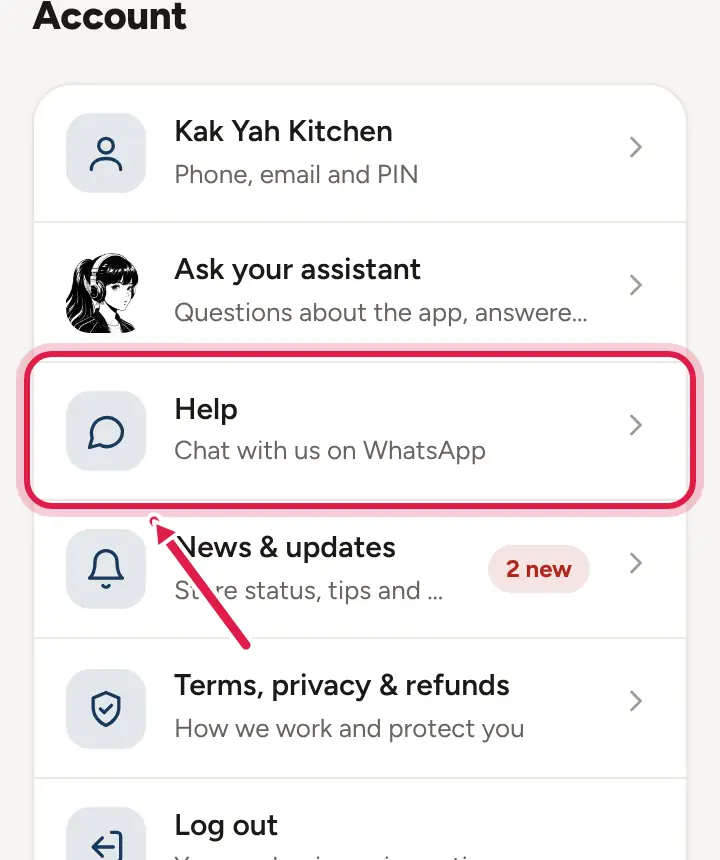
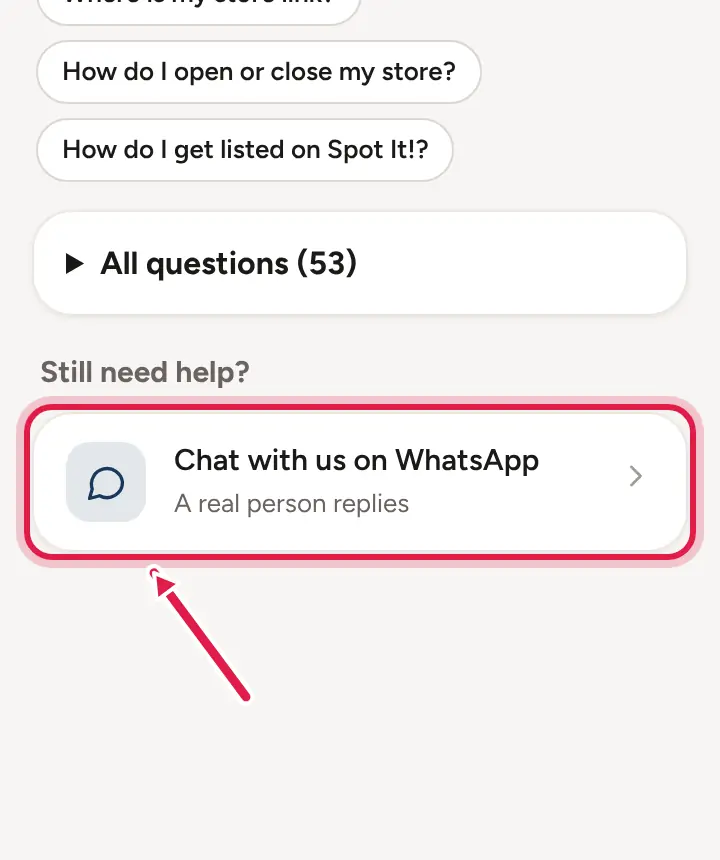
Account: one Help row that opens the assistant, WhatsApp inside it
Claude-Session: https://claude.ai/code/session_01UJFnisQ1AMpzEvBR8NiAo2

diff --git a/404.html b/404.html
@@ -2190,6 +2190,7 @@ function renderStart(msg, mode){
 // New Link Kedai App features are announced to sellers automatically from this list.
 // Add a post at the top for every update sellers can see. The bot shows it on their store home and in News.
 const APP_UPDATES = [
+  { id: "u-20261018-help", at: "2026-10-18", title: "Help is all in one place", body: "Under Account, Help now opens your assistant. Ask anything there, and if you still need a hand, Chat with us on WhatsApp is at the bottom of the page." },
   { id: "u-20261018-ask-learns", at: "2026-10-18", title: "Your assistant keeps learning", body: "When your assistant can't answer a question, it's now passed to us (without your name, store or number) so we can teach it the answer. The more you ask, the smarter it gets." },
   { id: "u-20261018-ask-smarter", at: "2026-10-18", title: "Your assistant understands you better", body: "Your assistant now understands short forms and Manglish, like \"camne nak letak gmbr\" or \"kedai x keluar kat map\", and has new answers about opening hours, order alerts, discounts, stock limits, cancelled orders and putting your link in your Instagram bio." },
   { id: "u-20261018-map-pins", at: "2026-10-18", title: "New map pins with your logo", body: "On Spot It!, every store is now a navy map pin with your logo in its round head. The tip of the pin points at your area. The same pins show in More stores near you at the end of store pages. No logo yet? Add one under Shop details." },
@@ -2840,7 +2841,7 @@ const ASK_KB = [
   { id: "discount", q: "Can I give a discount or promo code?", k: "discount sale promotion", a: () => `There are no promo codes yet. You can lower the price on the item for a while, mention the promotion in its description or in the short line under your shop name, and give the discount when you reply on WhatsApp.`, go: () => askGo("products", "Open " + W(S).list) },
   { id: "stocklimit", q: "Can I limit how many can be ordered?", k: "quantity", a: () => `There's no stock count yet. When something runs out, open the item and tick <b>Sold out for now</b>. You can also write the limit in the item's description, like "Only 20 per day".`, go: () => askGo("products", "Open " + W(S).list) },
   { id: "slow", q: "The app is slow or not working", k: "slow load error not working blank refresh", a: () => `Check your internet first, then close the app fully and open it again. Still stuck? WhatsApp us and tell us what you see.`, go: () => askWa() },
-  { id: "human", q: "How do I talk to a person?", k: "contact help talk human whatsapp call admin", a: () => `Tap below to chat with us on WhatsApp. You'll also find <b>Help</b> under Account.`, go: () => askWa() }
+  { id: "human", q: "How do I talk to a person?", k: "contact help talk human whatsapp call admin", a: () => `Tap below to chat with us on WhatsApp. It's also at the bottom of this page, under <b>Still need help?</b>. Open this page any time from <b>Help</b> on Account.`, go: () => askWa() }
 ];
 // Example pictures (help/<id>.webp): the app screen with a red circle and arrow on what to tap
 const ASK_SHOTS = new Set("additem affiliate chpin currency daysoff delacct delitem delivery email forgot human insights link linkname login look map name news openclose orders phone photo pin preview price publish removed reorder sections sizes soldout spotit status trial verified".split(" "));
@@ -2895,7 +2896,7 @@ function askSend(){
 function askAnswer(id){ const e = ASK_KB.find(x => x.id === id); if (e) askPush(e.q, askReply(e)); }
 function edAsk(){
   if (ASKID !== SESSION.id){ ASKLOG = []; ASKID = SESSION.id; }
-  return `${edTop("Ask your assistant", ASKBACK)}
+  return `${edTop("Help", ASKBACK)}
   <article class="bulcard askbot"><img class="botav" src="bot.jpg" alt="Your assistant"><div class="bulbody"><p>Hi! I'm your ${esc(APP_NAME)} assistant. Ask me anything about your store, in English or Malay, and I'll answer right away.</p></div></article>
   <div id="askLog" aria-live="polite">${ASKLOG.map(askMsgHtml).join("")}</div>
   <section class="card askbar"><label for="askIn" class="sr">Your question</label>
@@ -2906,15 +2907,14 @@ function edAsk(){
   <details class="card lk-group askall"><summary>All questions (${ASK_KB.length})</summary>
     ${ASK_KB.map(e => `<button type="button" class="lk-row" data-act="askq" data-v="${e.id}"><span class="tt"><b>${esc(e.q)}</b></span><span class="chev">${ico("chevron",18)}</span></button>`).join("")}
   </details>
-  <p class="hint" style="margin:4px 4px 0">Can't find it? ${askTo() ? `<a href="https://wa.me/${askTo()}?text=${encodeURIComponent(`Hi ${APP_NAME}, I need help with my store ${SESSION.id}.`)}" target="_blank" rel="noopener">Chat with a person on WhatsApp</a>.` : "Message us any time."}</p>`;
+  ${askTo() ? `<h2 class="edsub">Still need help?</h2><section class="card lk-group"><a class="lk-row askhuman" href="https://wa.me/${askTo()}?text=${encodeURIComponent(`Hi ${APP_NAME}, I need help with my store ${SESSION.id}.`)}" target="_blank" rel="noopener" style="text-decoration:none"><span class="tile">${ico("chat")}</span><span class="tt"><b>Chat with us on WhatsApp</b><span>A real person replies</span></span><span class="chev">${ico("chevron",18)}</span></a></section>` : ""}`;
 }
 function edAccount(){
   const to = String(SITE.ownerWa || "").replace(/\D/g, "");
   return `${edTop("Account", "")}
   <section class="card lk-group">
     <button class="lk-row" data-act="go" data-v="profile"><span class="tile">${ico("user")}</span><span class="tt"><b>${esc(S.name || "My store")}</b><span>Phone, email and PIN</span></span><span class="chev">${ico("chevron",18)}</span></button>
-    <button class="lk-row" data-act="go" data-v="ask"><span class="tile asktile"><img src="bot.jpg" alt=""></span><span class="tt"><b>Ask your assistant</b><span>Questions about the app, answered right away</span></span><span class="chev">${ico("chevron",18)}</span></button>
-    ${to ? `<a class="lk-row" href="https://wa.me/${to}?text=${encodeURIComponent("Hi " + APP_NAME + ", I need help with my store " + (SESSION ? SESSION.id : ""))}" target="_blank" rel="noopener" style="text-decoration:none"><span class="tile">${ico("chat")}</span><span class="tt"><b>Help</b><span>Chat with us on WhatsApp</span></span><span class="chev">${ico("chevron",18)}</span></a>` : ""}
+    <button class="lk-row" data-act="go" data-v="ask"><span class="tile asktile"><img src="bot.jpg" alt=""></span><span class="tt"><b>Help</b><span>Your assistant, or WhatsApp us</span></span><span class="chev">${ico("chevron",18)}</span></button>
     ${(() => { const n = unreadOf(newsItems()); return `<button class="lk-row" data-act="go" data-v="news"><span class="tile">${ico("bell")}</span><span class="tt"><b>News & updates</b><span>Store status, tips and what's new</span></span>${n ? `<span class="tag2 unpaid">${n > 9 ? "9+" : n} new</span>` : ""}<span class="chev">${ico("chevron",18)}</span></button>`; })()}
     <a class="lk-row" href="${esc(home())}terms" target="_blank" rel="noopener" style="text-decoration:none"><span class="tile">${ico("shield")}</span><span class="tt"><b>Terms, privacy & refunds</b><span>How we work and protect you</span></span><span class="chev">${ico("chevron",18)}</span></a>
     <button class="lk-row" data-act="logout"><span class="tile">${ico("logout")}</span><span class="tt"><b>Log out</b><span>${SESSION && SESSION.tok ? "This phone stays logged in" : "You can log in again anytime"}</span></span></button>

diff --git a/index.html b/index.html
@@ -2190,6 +2190,7 @@ function renderStart(msg, mode){
 // New Link Kedai App features are announced to sellers automatically from this list.
 // Add a post at the top for every update sellers can see. The bot shows it on their store home and in News.
 const APP_UPDATES = [
+  { id: "u-20261018-help", at: "2026-10-18", title: "Help is all in one place", body: "Under Account, Help now opens your assistant. Ask anything there, and if you still need a hand, Chat with us on WhatsApp is at the bottom of the page." },
   { id: "u-20261018-ask-learns", at: "2026-10-18", title: "Your assistant keeps learning", body: "When your assistant can't answer a question, it's now passed to us (without your name, store or number) so we can teach it the answer. The more you ask, the smarter it gets." },
   { id: "u-20261018-ask-smarter", at: "2026-10-18", title: "Your assistant understands you better", body: "Your assistant now understands short forms and Manglish, like \"camne nak letak gmbr\" or \"kedai x keluar kat map\", and has new answers about opening hours, order alerts, discounts, stock limits, cancelled orders and putting your link in your Instagram bio." },
   { id: "u-20261018-map-pins", at: "2026-10-18", title: "New map pins with your logo", body: "On Spot It!, every store is now a navy map pin with your logo in its round head. The tip of the pin points at your area. The same pins show in More stores near you at the end of store pages. No logo yet? Add one under Shop details." },
@@ -2840,7 +2841,7 @@ const ASK_KB = [
   { id: "discount", q: "Can I give a discount or promo code?", k: "discount sale promotion", a: () => `There are no promo codes yet. You can lower the price on the item for a while, mention the promotion in its description or in the short line under your shop name, and give the discount when you reply on WhatsApp.`, go: () => askGo("products", "Open " + W(S).list) },
   { id: "stocklimit", q: "Can I limit how many can be ordered?", k: "quantity", a: () => `There's no stock count yet. When something runs out, open the item and tick <b>Sold out for now</b>. You can also write the limit in the item's description, like "Only 20 per day".`, go: () => askGo("products", "Open " + W(S).list) },
   { id: "slow", q: "The app is slow or not working", k: "slow load error not working blank refresh", a: () => `Check your internet first, then close the app fully and open it again. Still stuck? WhatsApp us and tell us what you see.`, go: () => askWa() },
-  { id: "human", q: "How do I talk to a person?", k: "contact help talk human whatsapp call admin", a: () => `Tap below to chat with us on WhatsApp. You'll also find <b>Help</b> under Account.`, go: () => askWa() }
+  { id: "human", q: "How do I talk to a person?", k: "contact help talk human whatsapp call admin", a: () => `Tap below to chat with us on WhatsApp. It's also at the bottom of this page, under <b>Still need help?</b>. Open this page any time from <b>Help</b> on Account.`, go: () => askWa() }
 ];
 // Example pictures (help/<id>.webp): the app screen with a red circle and arrow on what to tap
 const ASK_SHOTS = new Set("additem affiliate chpin currency daysoff delacct delitem delivery email forgot human insights link linkname login look map name news openclose orders phone photo pin preview price publish removed reorder sections sizes soldout spotit status trial verified".split(" "));
@@ -2895,7 +2896,7 @@ function askSend(){
 function askAnswer(id){ const e = ASK_KB.find(x => x.id === id); if (e) askPush(e.q, askReply(e)); }
 function edAsk(){
   if (ASKID !== SESSION.id){ ASKLOG = []; ASKID = SESSION.id; }
-  return `${edTop("Ask your assistant", ASKBACK)}
+  return `${edTop("Help", ASKBACK)}
   <article class="bulcard askbot"><img class="botav" src="bot.jpg" alt="Your assistant"><div class="bulbody"><p>Hi! I'm your ${esc(APP_NAME)} assistant. Ask me anything about your store, in English or Malay, and I'll answer right away.</p></div></article>
   <div id="askLog" aria-live="polite">${ASKLOG.map(askMsgHtml).join("")}</div>
   <section class="card askbar"><label for="askIn" class="sr">Your question</label>
@@ -2906,15 +2907,14 @@ function edAsk(){
   <details class="card lk-group askall"><summary>All questions (${ASK_KB.length})</summary>
     ${ASK_KB.map(e => `<button type="button" class="lk-row" data-act="askq" data-v="${e.id}"><span class="tt"><b>${esc(e.q)}</b></span><span class="chev">${ico("chevron",18)}</span></button>`).join("")}
   </details>
-  <p class="hint" style="margin:4px 4px 0">Can't find it? ${askTo() ? `<a href="https://wa.me/${askTo()}?text=${encodeURIComponent(`Hi ${APP_NAME}, I need help with my store ${SESSION.id}.`)}" target="_blank" rel="noopener">Chat with a person on WhatsApp</a>.` : "Message us any time."}</p>`;
+  ${askTo() ? `<h2 class="edsub">Still need help?</h2><section class="card lk-group"><a class="lk-row askhuman" href="https://wa.me/${askTo()}?text=${encodeURIComponent(`Hi ${APP_NAME}, I need help with my store ${SESSION.id}.`)}" target="_blank" rel="noopener" style="text-decoration:none"><span class="tile">${ico("chat")}</span><span class="tt"><b>Chat with us on WhatsApp</b><span>A real person replies</span></span><span class="chev">${ico("chevron",18)}</span></a></section>` : ""}`;
 }
 function edAccount(){
   const to = String(SITE.ownerWa || "").replace(/\D/g, "");
   return `${edTop("Account", "")}
   <section class="card lk-group">
     <button class="lk-row" data-act="go" data-v="profile"><span class="tile">${ico("user")}</span><span class="tt"><b>${esc(S.name || "My store")}</b><span>Phone, email and PIN</span></span><span class="chev">${ico("chevron",18)}</span></button>
-    <button class="lk-row" data-act="go" data-v="ask"><span class="tile asktile"><img src="bot.jpg" alt=""></span><span class="tt"><b>Ask your assistant</b><span>Questions about the app, answered right away</span></span><span class="chev">${ico("chevron",18)}</span></button>
-    ${to ? `<a class="lk-row" href="https://wa.me/${to}?text=${encodeURIComponent("Hi " + APP_NAME + ", I need help with my store " + (SESSION ? SESSION.id : ""))}" target="_blank" rel="noopener" style="text-decoration:none"><span class="tile">${ico("chat")}</span><span class="tt"><b>Help</b><span>Chat with us on WhatsApp</span></span><span class="chev">${ico("chevron",18)}</span></a>` : ""}
+    <button class="lk-row" data-act="go" data-v="ask"><span class="tile asktile"><img src="bot.jpg" alt=""></span><span class="tt"><b>Help</b><span>Your assistant, or WhatsApp us</span></span><span class="chev">${ico("chevron",18)}</span></button>
     ${(() => { const n = unreadOf(newsItems()); return `<button class="lk-row" data-act="go" data-v="news"><span class="tile">${ico("bell")}</span><span class="tt"><b>News & updates</b><span>Store status, tips and what's new</span></span>${n ? `<span class="tag2 unpaid">${n > 9 ? "9+" : n} new</span>` : ""}<span class="chev">${ico("chevron",18)}</span></button>`; })()}
     <a class="lk-row" href="${esc(home())}terms" target="_blank" rel="noopener" style="text-decoration:none"><span class="tile">${ico("shield")}</span><span class="tt"><b>Terms, privacy & refunds</b><span>How we work and protect you</span></span><span class="chev">${ico("chevron",18)}</span></a>
     <button class="lk-row" data-act="logout"><span class="tile">${ico("logout")}</span><span class="tt"><b>Log out</b><span>${SESSION && SESSION.tok ? "This phone stays logged in" : "You can log in again anytime"}</span></span></button>

diff --git a/sw.js b/sw.js
@@ -1,6 +1,6 @@
 // Link Kedai App helper: opens fast and shows a friendly page when offline.
 // Pages, the manifest and the icons are always fetched fresh first, so updates arrive straight away.
-const V = "linkedai-v69";
+const V = "linkedai-v70";
 // Only what the app needs to open offline (the splash logo and loader logo included). Big icons and shortcut pictures
 // are fetched when the phone asks for them, so a first visit doesn't download them all over a slow connection.
 const SHELL = ["./index.html", "./manifest.webmanifest", "./icon-192.png", "./favicon.png", "./logo.png", "./logo-white.png", "./bot.jpg"];
